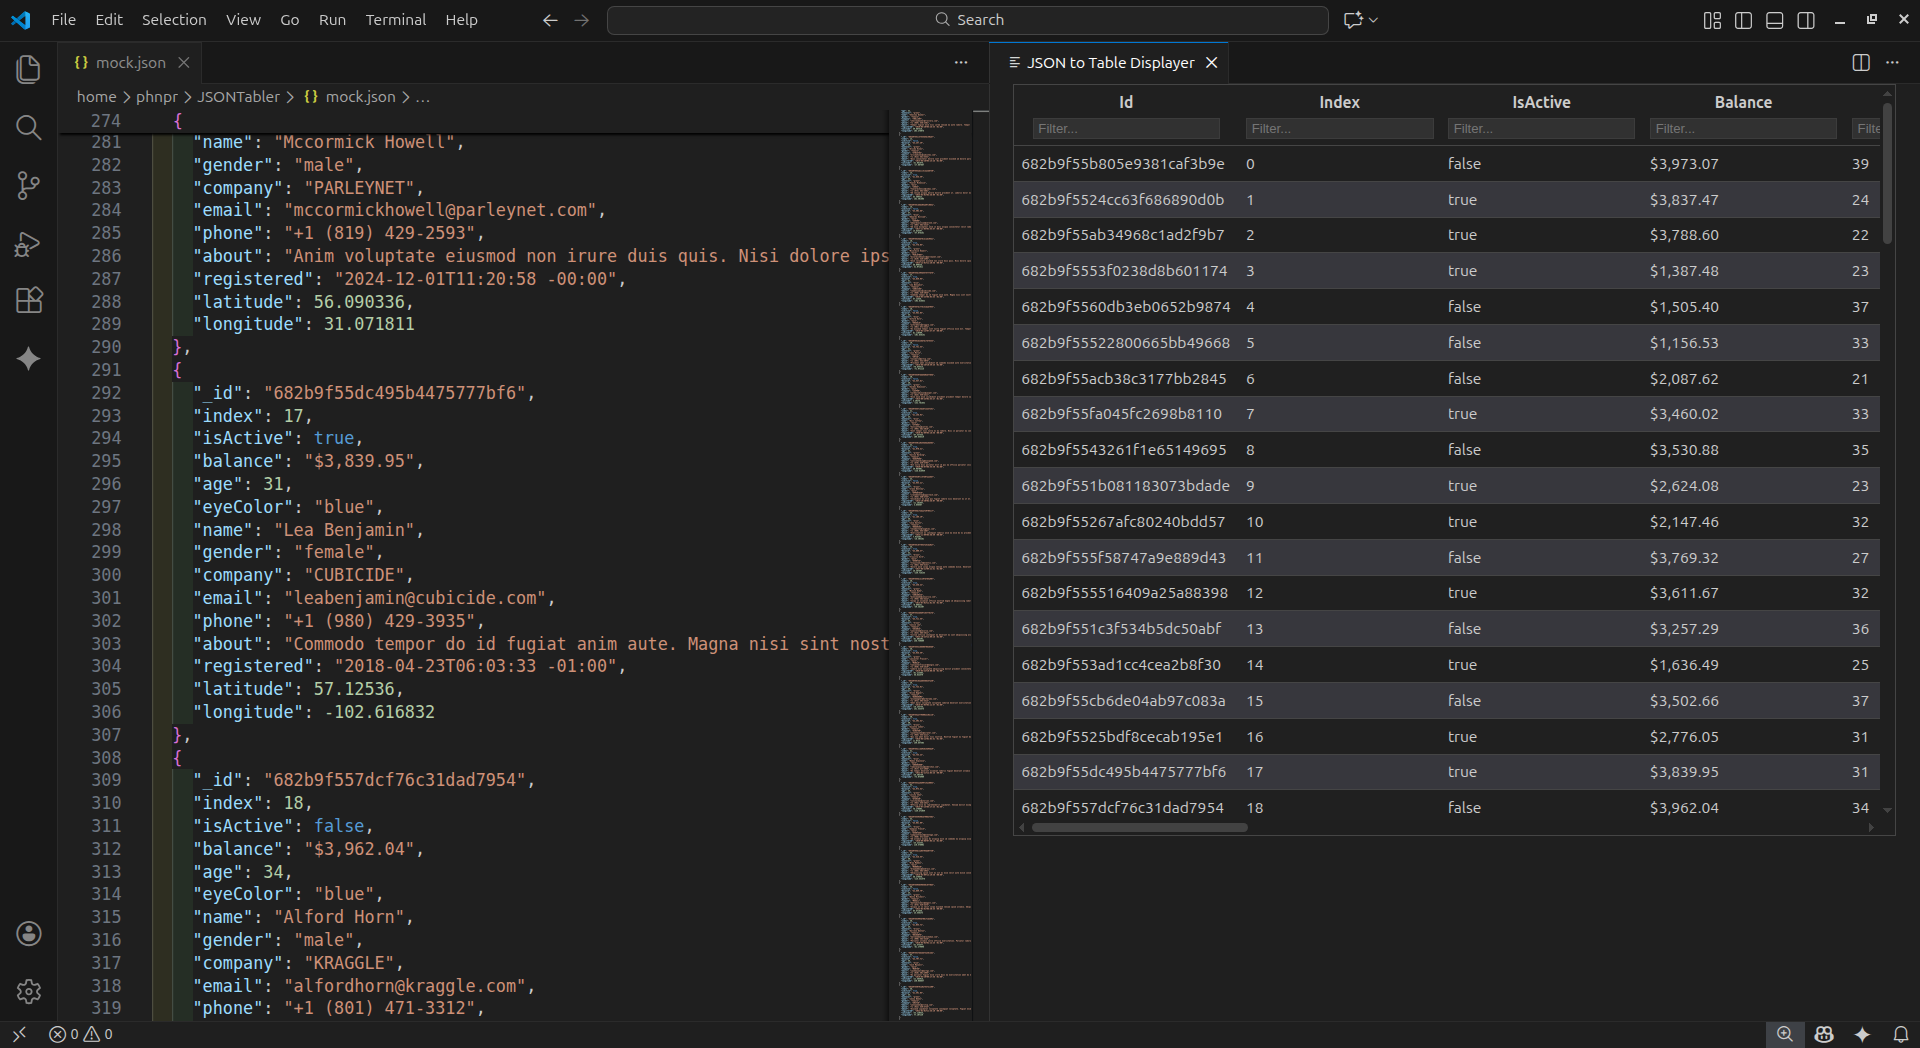
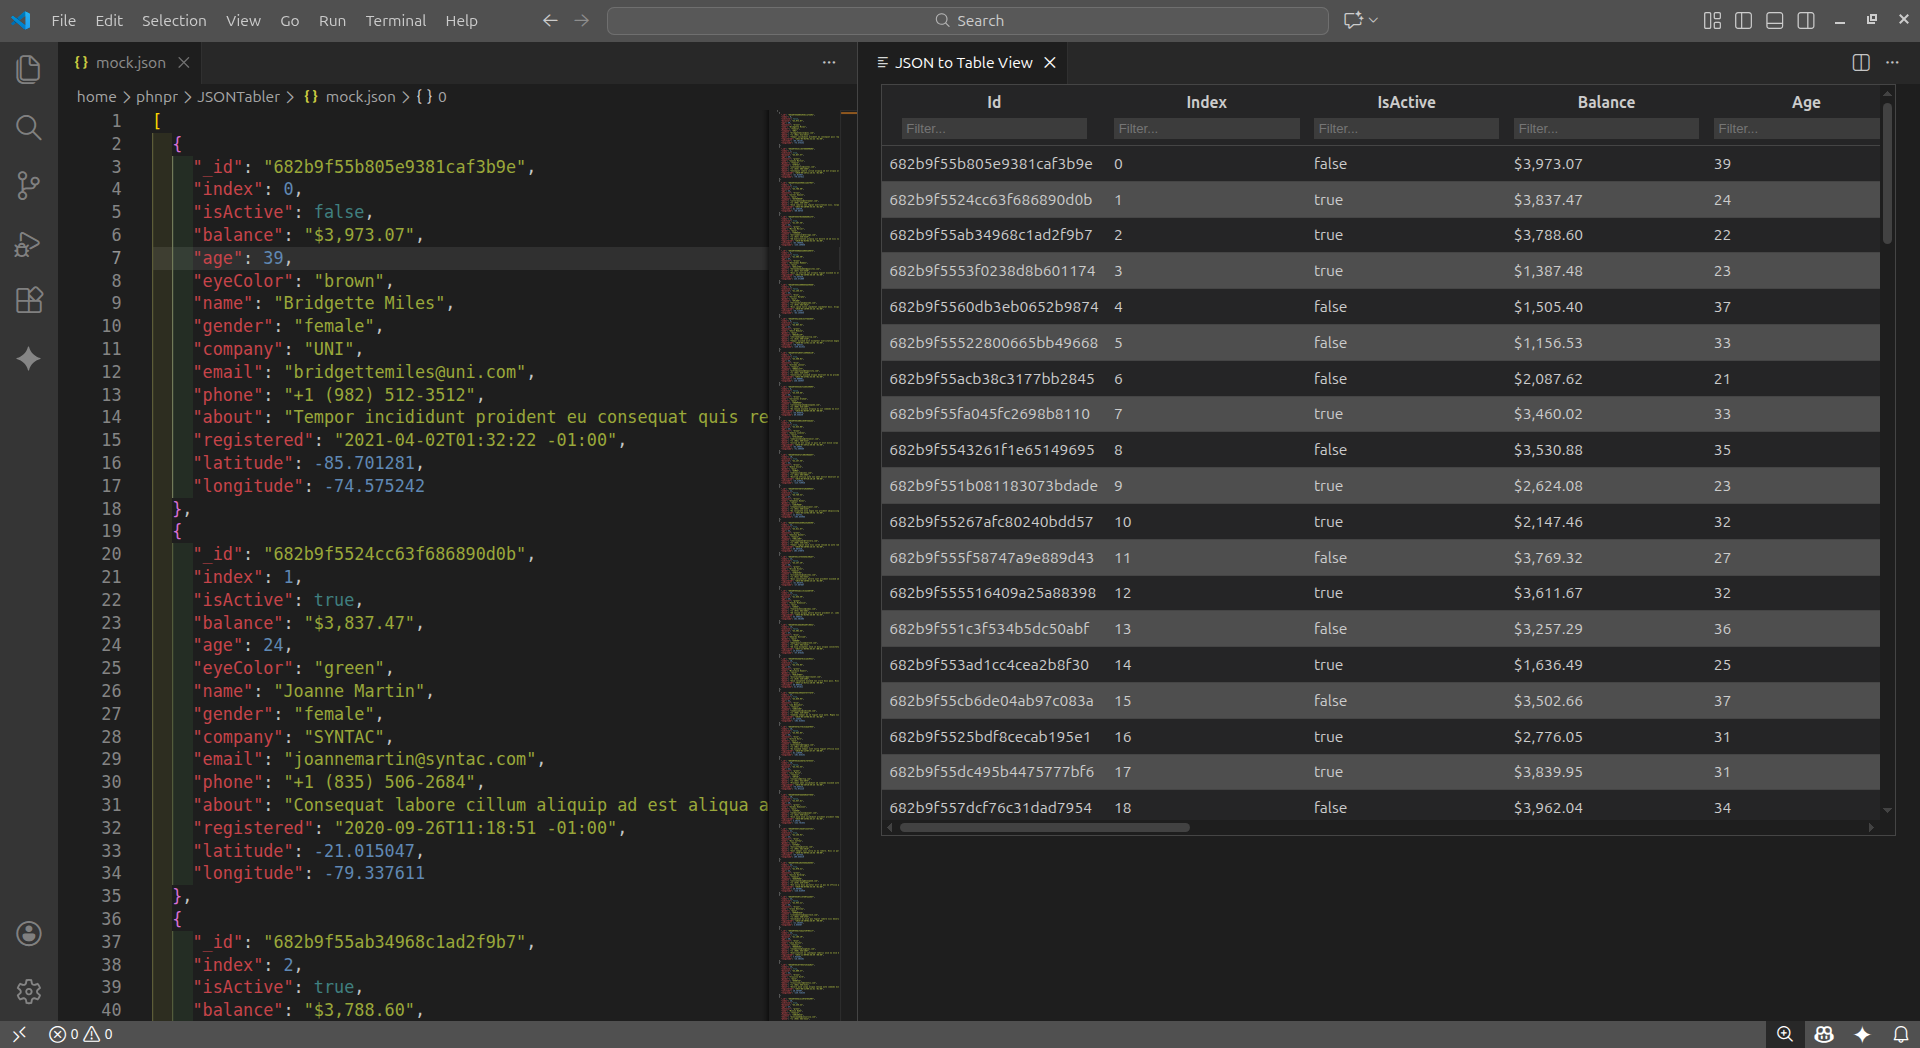
updated name

diff --git a/src/extension.ts b/src/extension.ts
@@ -26,7 +26,7 @@ export function activate(context: vscode.ExtensionContext) {
 
 		const panel = vscode.window.createWebviewPanel(
 			"JSONTabler",
-			"JSON to Table Displayer",
+			"JSON to Table View",
 			vscode.ViewColumn.Beside,
 			{ enableScripts: true }
 		);

diff --git a/react-webview/index.html b/react-webview/index.html
@@ -3,7 +3,7 @@
   <head>
     <meta charset="UTF-8" />
     <meta name="viewport" content="width=device-width, initial-scale=1.0" />
-    <title>JSON to Table Displayer App</title>
+    <title>JSON to Table View App</title>
 
     <style>
       body {

diff --git a/README.md b/README.md
@@ -1,31 +1,45 @@
-<div align='center'>
-    <img src='./assets/logo.png' alt='logo' width='75'>
+<div align="center">
+  <img src="./assets/logo.png" alt="JSONTabler logo" width="75"/>
 
-# JSONTabler 
+# JSONTabler - JSON to Table View
+
 </div>
 
-**JSONTabler** makes flat JSON data as an spreadsheet like table 
-directly inside visual studio code. 
+**JSONTabler - JSON to Table View** transforms flat JSON files into a clean, spreadsheet-like table rendered directly inside **Visual Studio Code**.
 
-## Features 
-- Column Filtering 
-- Column Sorting 
-- Column Resizing 
-- UI of the table matches the corresponding Visual Studio 
-Code editor theme
+View, explore, and analyze your JSON data without leaving the editor.
 
-## Getting Started 
-1. Open any JSON file (.json)
-2. Run the command `Ctrl + Shift + P` and select `Show JSON as Table`
-3. A new editor sub-window with table format data opens in editor window 
 
-## Working Example 
+## Features
 
-### Menu Command 
-![Screenshot](./assets/menu.png)
+* **Column Filtering** — quickly narrow down data
+* **Column Sorting** — sort rows with a click
+* **Column Resizing** — adjust columns to fit your data
+* **Hover Preview** — view full cell content without resizing columns
+* **Theme-Aware UI** — seamlessly matches your current VS Code theme
 
-### Table 
-![Screenshot](./assets/dark.png)
 
-### Changing Theme 
-![Screenshot](./assets/light.png)
+## 🚀 Getting Started
+
+1. Open any JSON file (`.json`)
+2. Press `Ctrl + Shift + P`
+3. Select **Show JSON as Table**
+4. A new editor pane opens displaying your data in a table format
+
+That’s it.
+
+---
+
+## 📸 Working Example
+
+### Command Palette
+
+![Menu Command](./assets/menu.png)
+
+### Table View (Dark Theme)
+
+![Table Dark](./assets/dark.png)
+
+### Table View (Light Theme)
+
+![Table Light](./assets/light.png)
